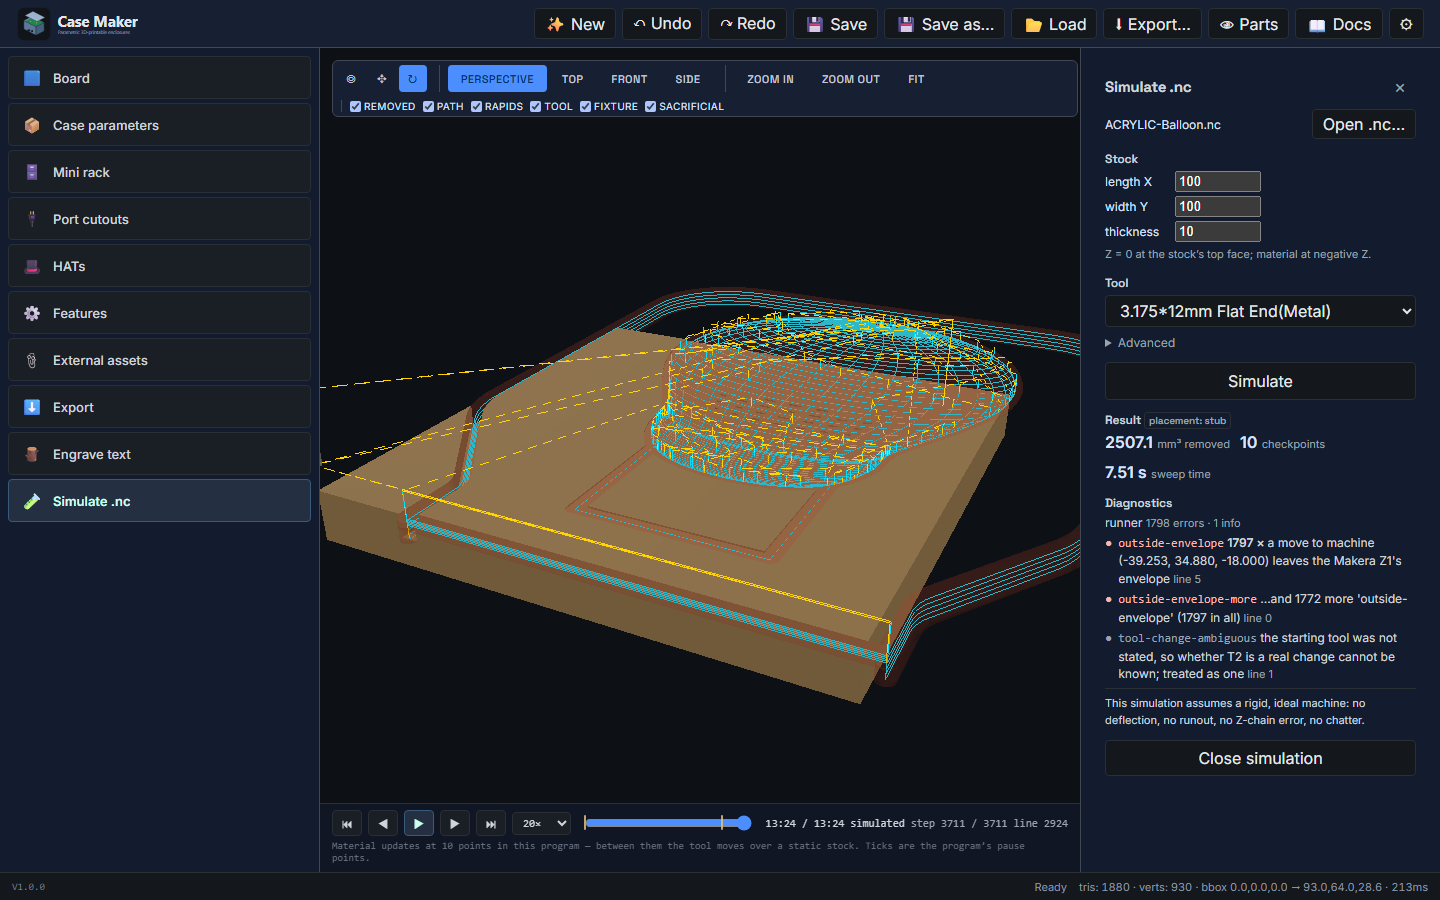
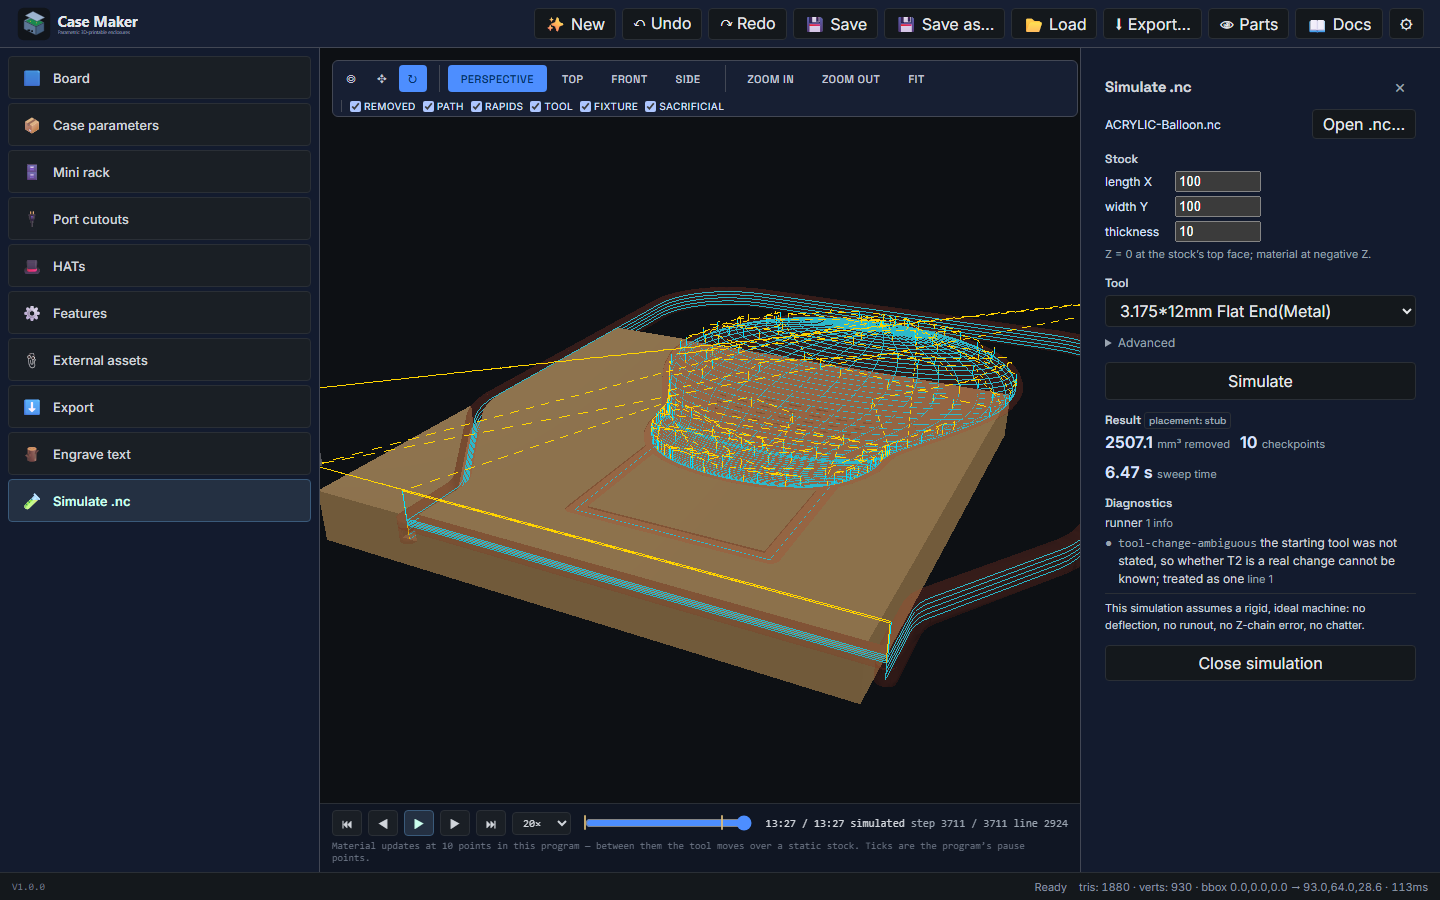
fix(sim): place the part by its extent, not by pinning its origin at the centre (#196)
`stubSetup` put the **model origin** at the envelope centre, which is only right
for a part whose origin is its centre. A `rectProfile` part's origin is its
front-left corner, so half the part — and any program written against that
corner — hung off the +X/+Y faces. It now fits the part's work-frame bounding box
inside the envelope: the bbox centre goes to the envelope centre.

**This is the maintainer's option (a)**, taken on #196 after the slot refused to
guess. Fitting is not suppressing: `insideEnvelope` still runs, and a program that
genuinely reaches past the envelope still reports `outside-envelope`. Both
directions are pinned — a 60 × 30 job runs clean, a work X of 250 still fails.

Acceptance 1, which has never passed before: `LED/ACRYLIC-Balloon.nc` with the
3.175 mm flat reaches status `ready`, **2507.0969 mm³** removed, 10 checkpoints,
**zero error codes** — it was 1797 `outside-envelope`. Acceptance 2 is unchanged:
`TopClamp.nc` still prefills 100 × 100 × 5 and its header tool.

Only the prism kind has a resolvable XY outline, so cylinder and node parts keep
the old origin-at-centre stub, documented at the function.

**Known side effect, stated plainly:** `toSetup` shares `stubSetup`, so the
engrave path's placement origin also moves (100 × 60 stock: (−100,−100) →
(−150,−130)) — strictly further inside the envelope. Observable engrave behaviour
does not change: the work origin is still the part's top-front-left, the jaw faces
[…]

diff --git a/casemaker-app/src/engine/cnc/setup.ts b/casemaker-app/src/engine/cnc/setup.ts
@@ -23,10 +23,10 @@
  * (The first sketch put a live `Manifold` in `part`, which cannot be posted to a worker.)
  */
 
-import type { Profile } from '@/engine/compiler/profile';
+import { aabbOfProfile, type Profile } from '@/engine/compiler/profile';
 import type { Mm, Vec2, Vec3 } from '@/types/units';
 import type { Sacrificial } from '@/types/engraveJob';
-import type { MachineProfile } from './machine';
+import type { AxisRange, MachineProfile } from './machine';
 
 export type Degrees = number;
 
@@ -167,6 +167,37 @@ export interface Setup {
 }
 
 /**
+ * The part's XY bounding box in its own model frame, when the geometry is known here. Only the
+ * prism states its XY outline; a cylinder's axis and a compiled node are not resolvable without
+ * the compiler, so those fall back to the origin-at-centre stub (below).
+ */
+function modelBounds(part: PartSpec): { min: Vec2; max: Vec2 } | null {
+  return part.kind === 'prism' ? aabbOfProfile(part.outline) : null;
+}
+
+/**
+ * Where the stub places a part on a machine (#196 decision (a)). The first version pinned the
+ * model ORIGIN at the envelope's centre, which is only right for a part whose origin is its
+ * centre: a `rectProfile` part has its origin at its front-left corner, so half of it (and any
+ * program written against that corner) hangs off the envelope's +X/+Y faces. This fits the
+ * part's own work-frame EXTENT — its bounding box — inside the envelope instead: the box's
+ * centre goes to the envelope's centre, so the origin lands half an extent below/left of it.
+ *
+ * Fitting is not the same as suppressing the check (`insideEnvelope` still runs): a part, or a
+ * program reaching past it, that is genuinely larger than the envelope still reports
+ * `outside-envelope`.
+ */
+function machinePlacement(part: PartSpec, machine: MachineProfile, zTop: Mm): Vec3 {
+  const centre = (r: AxisRange): Mm => (r.min + r.max) / 2;
+  const b = modelBounds(part);
+  const x = b ? centre(machine.envelope.x) - (b.min[0] + b.max[0]) / 2 : centre(machine.envelope.x);
+  const y = b ? centre(machine.envelope.y) - (b.min[1] + b.max[1]) / 2 : centre(machine.envelope.y);
+  // The top face goes to the profile's safe Z — a height that is, by the firmware's own
+  // definition, above any work. The XY placement is the stub that #196 decision (a) fixes.
+  return [x, y, machine.toolChange.safeZ - zTop];
+}
+
+/**
  * The reference setup for a part that sits with its model origin at the machine origin and
  * is registered exactly: the simplest valid stub, and what tests start from.
  */
@@ -174,13 +205,10 @@ export function stubSetup(part: PartSpec, workholding: Workholding, overrides: P
   const zTop = part.kind === 'prism' ? part.thickness : part.kind === 'cylinder' ? part.diameter / 2 : 0;
   // Without a machine the stub sits at the machine origin, which is fine for the frame
   // maths and useless on a real Z1, whose origin is the far top corner of a NEGATIVE
-  // envelope (every +X move would leave it). With one, the model origin goes to the centre
-  // of the envelope and the top face to the profile's safe Z — a height that is, by the
-  // firmware's own definition, above any work. It is still a stub: a real placement comes
-  // from probing (decisions 26 and 28).
-  const at: Vec3 = machine
-    ? [(machine.envelope.x.min + machine.envelope.x.max) / 2, (machine.envelope.y.min + machine.envelope.y.max) / 2, machine.toolChange.safeZ - zTop]
-    : [0, 0, 0];
+  // envelope (every +X move would leave it). With one, the part's extent is fitted inside the
+  // envelope (see `machinePlacement`). It is still a stub: a real placement comes from probing
+  // (decisions 26 and 28).
+  const at: Vec3 = machine ? machinePlacement(part, machine, zTop) : [0, 0, 0];
   return {
     part,
     workholding,

diff --git a/casemaker-app/tests/e2e/slot5-closeout-qa.spec.ts b/casemaker-app/tests/e2e/slot5-closeout-qa.spec.ts
@@ -3,8 +3,7 @@
 // the approved #195 mockup (`docs/assets/cnc-mockup-*.png`); it asserts only that the surface
 // is on screen, never that pixels match. Remove or fold into #199/#206 once committed.
 //
-// Run (Windows side, Vite started by hand on 127.0.0.1 per #226):
-//   VITE_E2E=1 npx vite --port 5173 --strictPort --host 127.0.0.1
+// Run (Playwright starts its own dev server, #226):
 //   npx playwright test tests/e2e/slot5-closeout-qa.spec.ts
 
 import { readFileSync } from 'node:fs';
@@ -26,6 +25,9 @@ const readVendor = (testInfo: TestInfo, rel: string): string | null => {
 const shot = (name: string): string => join(process.cwd(), '..', 'docs', 'assets', name);
 
 test.use({ viewport: { width: 1440, height: 900 } });
+// The vendor sim and the engrave preview both run the wasm worker under swiftshader; a full
+// run takes tens of seconds, and longer under a loaded multi-session machine.
+test.setTimeout(240_000);
 
 async function loadBoardAndSection(page: Page, section: string): Promise<void> {
   await page.evaluate(async () => {
@@ -162,12 +164,13 @@ test('acceptance #196: ACRYLIC-Balloon.nc simulates to a result; TopClamp.nc pre
   const diagText = await page.getByTestId('sim-diagnostics').innerText().catch(() => '(none)');
   console.log('DIAG #196 balloon elapsed=%dms status=%s count=%d removed=%d errorCodes=%j\n%s',
     elapsed, sim.status, sim.count, sim.removedVolume, sim.errorCodes, diagText);
-  // #196 acceptance 1 also asks for ZERO errors. This file does not reach that: with the panel's
-  // stub placement (model origin at the envelope centre, `buildSimSetup` → `stubSetup(..., Z1)`)
-  // its work-frame Y reaches ~135 mm, so ~1797 moves land past the Z1 envelope's y=0 face
-  // (first at machine (-39.253, 34.880, -18.000)). Logged, not asserted, so the suite stays green;
-  // the finding lives in the #196 comment. It DOES produce a result (positive removed volume).
+  // #196 acceptance 1: a result, with ZERO errors. Fixed by decision (a) — the stub now fits
+  // the work-frame extent inside the envelope (the panel's `buildSimSetup` → `stubSetup(..., Z1)`
+  // places the 100 x 100 default stock at machine (-150, -150), so this file's ~147 mm of work
+  // Y lands at machine Y ≈ -3.4 instead of +35). The result is still a real one (positive
+  // removed volume), not a suppressed check.
   expect(sim.status).toBe('ready');
   expect(sim.removedVolume).toBeGreaterThan(0);
+  expect(sim.errorCodes).toEqual([]);
   await page.screenshot({ path: shot('slot5-sim-balloon.png') });
 });

diff --git a/casemaker-app/tests/unit/simSetup.spec.ts b/casemaker-app/tests/unit/simSetup.spec.ts
@@ -3,7 +3,7 @@
 
 import { describe, it, expect, beforeEach } from 'vitest';
 import { buildSimSetup, DEFAULT_STOCK, useSimSetupStore } from '@/store/simSetupStore';
-import { Z1 } from '@/engine/cnc';
+import { buildTimeline, parseGcode, Z1 } from '@/engine/cnc';
 
 // Verbatim from reference-gcode/Z1/TopClamp.nc (also in tests/unit/cncSetupFromHeader.spec.ts).
 const STOCK = ';@MKR|STOCK|id=cuboid|length=100|width=100|height=5|diameter=1';
@@ -84,13 +84,32 @@ describe('buildSimSetup', () => {
       contact: { kind: 'p-rect', size: [100, 80], center: false },
     });
     expect(setup.startingTool).toBe('unknown');
-    // The Z1 stub centres the part in the envelope — the placement is assumed, not measured.
+    // #196 decision (a): the Z1 stub fits the part's EXTENT inside the envelope, not the model
+    // origin at the envelope's centre. For a 100 x 80 part on the 200 x 200 Z1 the bbox centre
+    // goes to (-100, -100), so the front-left origin lands at (-150, -140).
     expect(setup.placement.source).toBe('stub');
-    expect(setup.placement.origin[0]).toBe((Z1.envelope.x.min + Z1.envelope.x.max) / 2);
+    expect(setup.placement.origin).toEqual([-150, -140, Z1.toolChange.safeZ - 6]);
+    expect(setup.wcs.origin).toEqual([-150, -140, Z1.toolChange.safeZ]);
   });
 
   it('honours an explicit starting tool', () => {
     expect(buildSimSetup(DEFAULT_STOCK, 1).startingTool).toBe(1);
     expect(buildSimSetup(DEFAULT_STOCK, -1).startingTool).toBe(-1);
+  });
+});
+
+// #196 decision (a), both directions, through the runner that does the envelope check.
+describe('the Z1 stub fits the work frame inside the envelope', () => {
+  it('a program written inside its own stock runs with no outside-envelope error', () => {
+    const setup = buildSimSetup({ length: 60, width: 30, thickness: 6 }, 1);
+    const tl = buildTimeline(parseGcode('G0 X5 Y5 Z5\nS1000 M3\nG1 Z-1 F100\nG1 X55 Y25\nG0 Z5\n'), setup, Z1);
+    expect(tl.diagnostics.filter((d) => d.code === 'outside-envelope')).toEqual([]);
+  });
+
+  it('a program genuinely larger than the envelope still fails', () => {
+    // Work X 250 maps to machine X = -130 + 250 = +120, past the Z1's x = 0 face.
+    const setup = buildSimSetup({ length: 60, width: 30, thickness: 6 }, 1);
+    const tl = buildTimeline(parseGcode('G0 X250 Y5 Z5\n'), setup, Z1);
+    expect(tl.diagnostics.map((d) => d.code)).toContain('outside-envelope');
   });
 });
